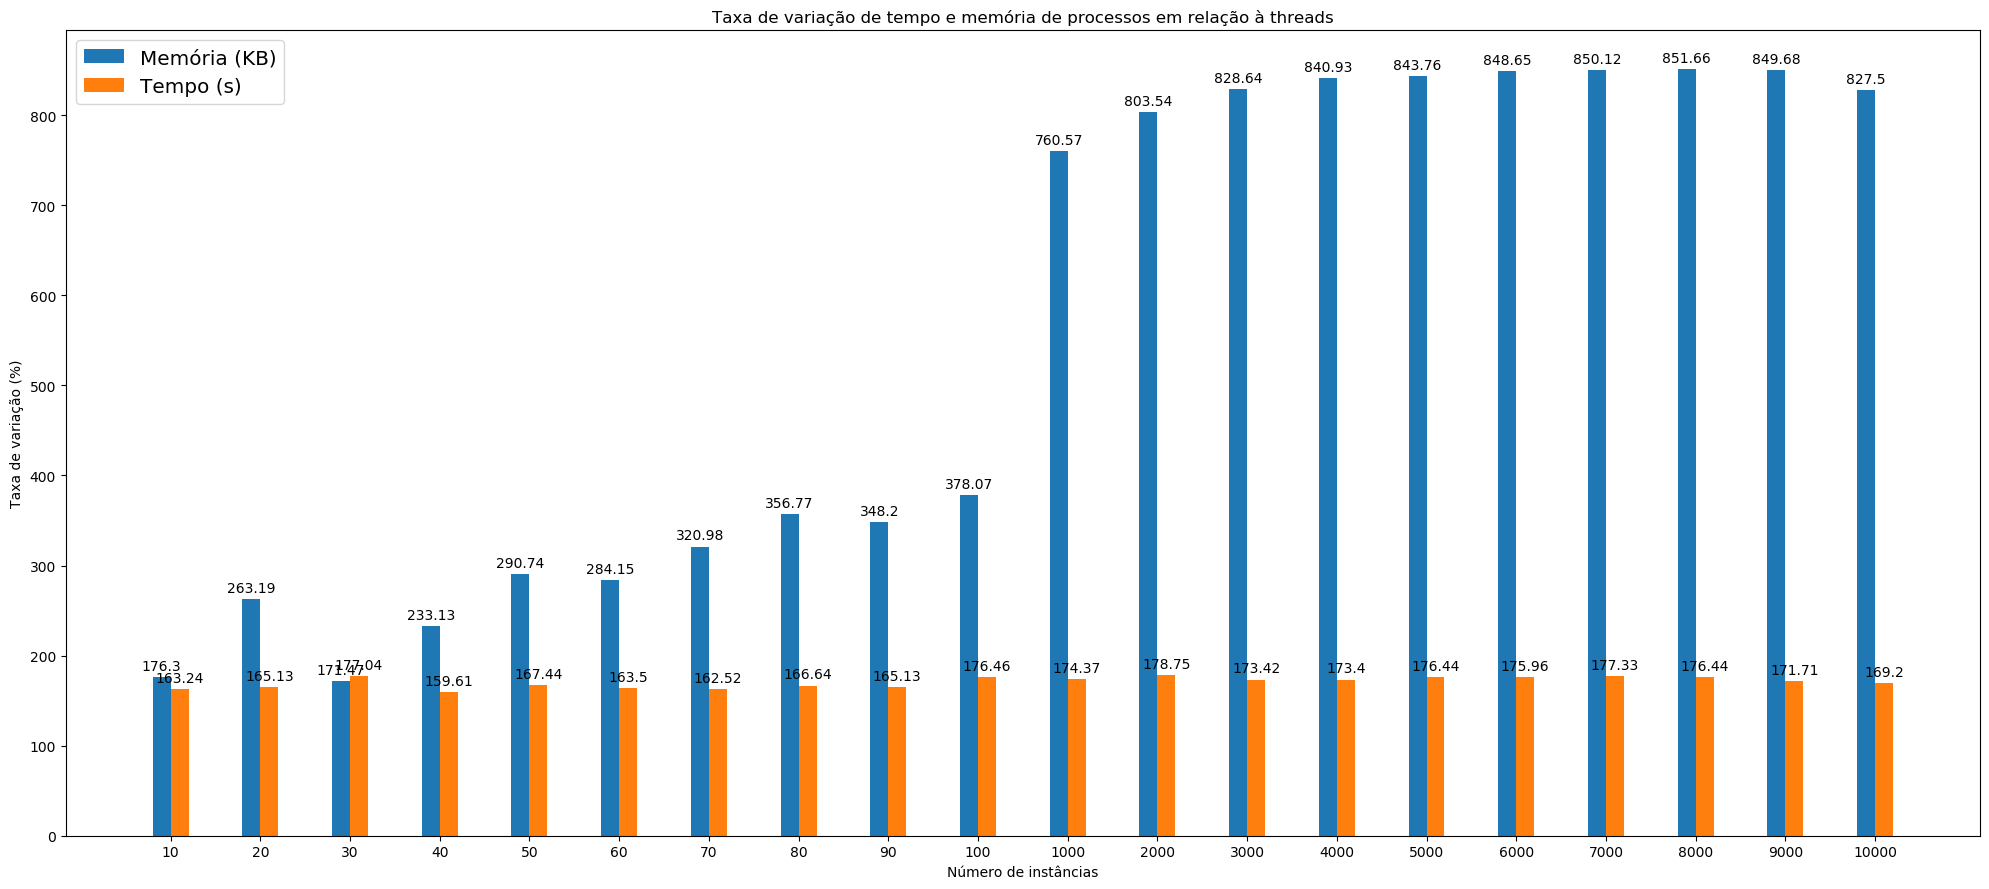
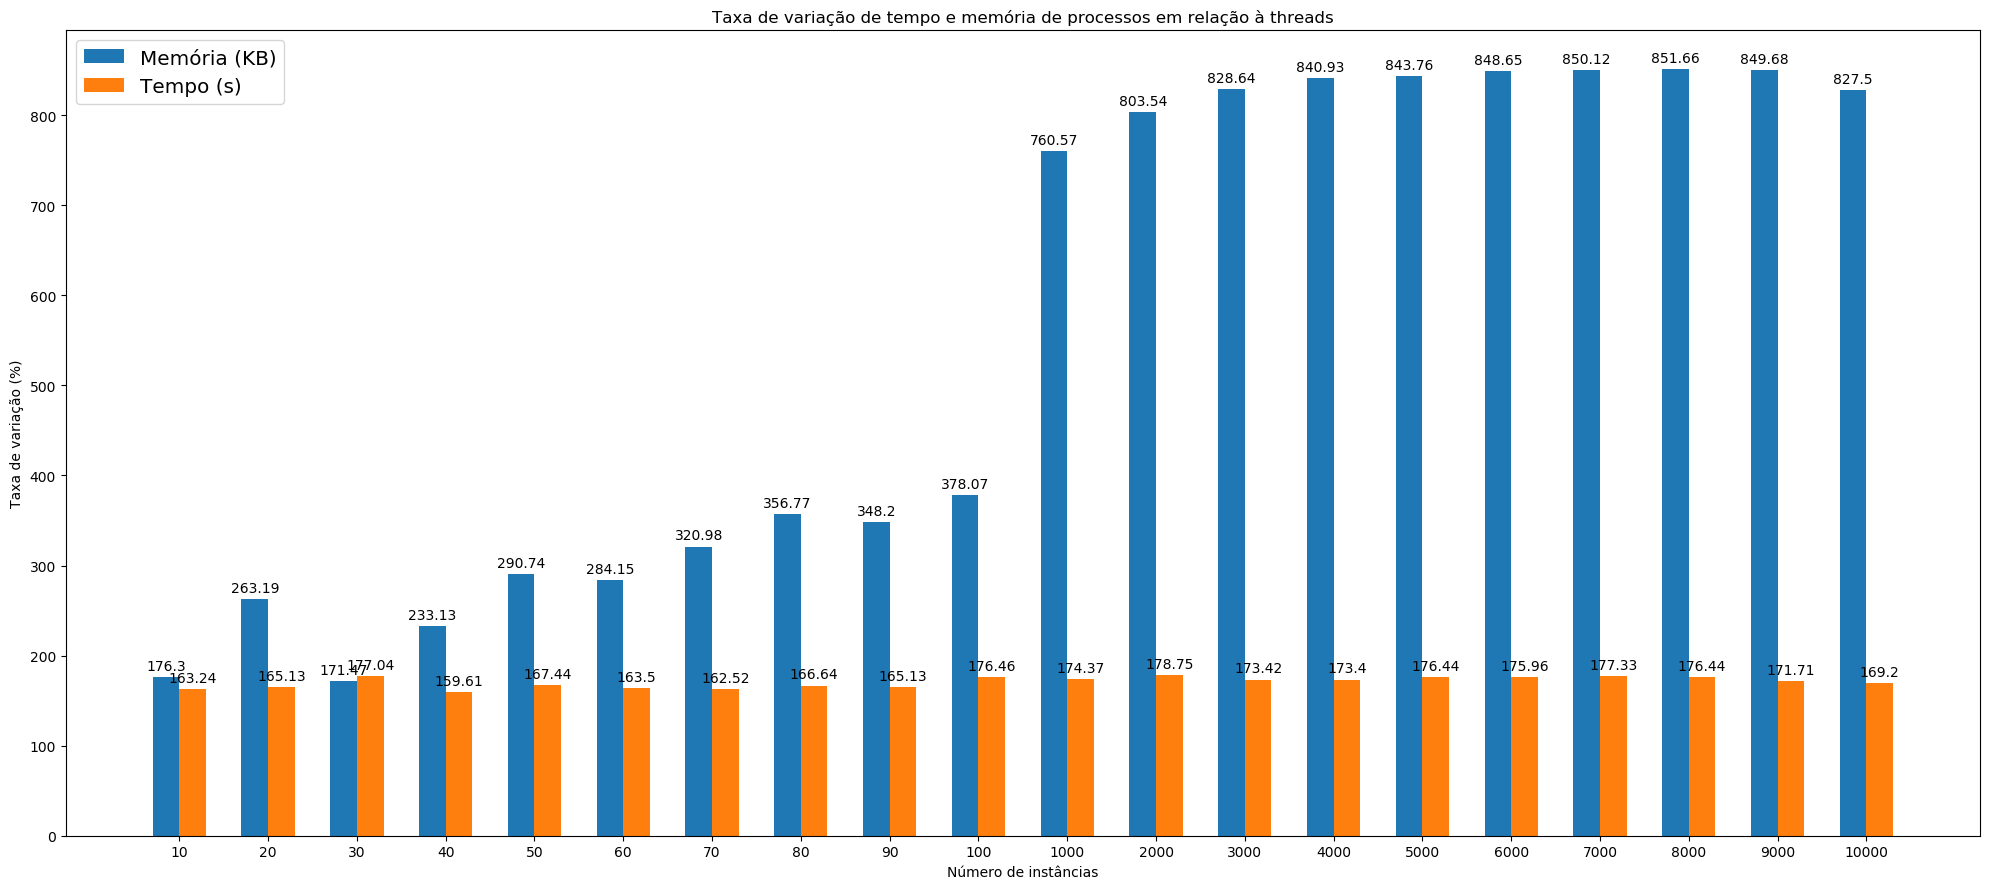
gráficos de tempo e memória por cada processo

Changed region(s): [[0.0623, 0.0607, 0.9663, 1.0], [0.3741, 0.0, 0.6858, 0.0304]]

diff --git a/questao_3/output/plot_graphics.py b/questao_3/output/plot_graphics.py
@@ -110,32 +110,6 @@ plt.legend()
 plt.savefig('rect_proc_x_thread_mem.png', bbox_inches='tight')
 plt.clf()
 
-## PER-THREAD AND PER-PROCESS DATA HISTOGRAMS
-
-thread_hist_mem = [statistics.mean(np.array(thread_mem_data_map[key]) / key) for key in keys]
-thread_hist_time = [statistics.mean(np.array(thread_time_data_map[key]) / key) for key in keys]
-proc_hist_mem = [statistics.mean(np.array(proc_mem_data_map[key]) / key) for key in keys]
-proc_hist_time = [statistics.mean(np.array(proc_time_data_map[key]) / key) for key in keys]
-
-print(thread_hist_mem)
-print(thread_hist_time)
-print(proc_hist_mem)
-print(proc_hist_time)
-
-fig, axs = plt.subplots(1, 2, sharey=True, tight_layout=True)
-# We can set the number of bins with the `bins` kwarg
-axs[0].hist(thread_hist_mem, bins=20)
-axs[1].hist(proc_hist_mem, bins=20)
-plt.savefig('hist_mem.png', bbox_inches='tight')
-plt.clf()
-
-fig, axs = plt.subplots(1, 2, sharey=True, tight_layout=True)
-# We can set the number of bins with the `bins` kwarg
-axs[0].hist(thread_hist_time, bins=20)
-axs[1].hist(proc_hist_time, bins=20)
-plt.savefig('hist_time.png', bbox_inches='tight')
-plt.clf()
-
 ## BOXPLOT GRAPHS ##
 
 thread_box_mem = [thread_mem_data_map[key] for key in keys]
@@ -163,6 +137,7 @@ for axe in ax:
     axe.set_ylabel('Memória Utilizada (KB)')
 plt.savefig('boxplot_10_50_mem.png', bbox_inches='tight')
 plt.clf()
+plt.close(fig)
 
 ## TIME
 
@@ -182,6 +157,7 @@ for axe in ax:
     axe.set_ylabel('Tempo (s)')
 plt.savefig('boxplot_10_50_time.png', bbox_inches='tight')
 plt.clf()
+plt.close(fig)
 
 ## 60 - 100 INSTANCES
 
@@ -204,6 +180,7 @@ for axe in ax:
     axe.set_ylabel('Memória Utilizada (KB)')
 plt.savefig('boxplot_60_100_mem.png', bbox_inches='tight')
 plt.clf()
+plt.close(fig)
 
 ## TIME
 
@@ -223,6 +200,7 @@ for axe in ax:
     axe.set_ylabel('Tempo (s)')
 plt.savefig('boxplot_60_100_time.png', bbox_inches='tight')
 plt.clf()
+plt.close(fig)
 
 ## 1K - 5K INSTANCES
 
@@ -244,6 +222,7 @@ for axe in ax:
     axe.set_ylabel('Memória Utilizada (KB)')
 plt.savefig('boxplot_1K_5K_mem.png', bbox_inches='tight')
 plt.clf()
+plt.close(fig)
 
 ## TIME
 
@@ -263,6 +242,7 @@ for axe in ax:
     axe.set_ylabel('Tempo (s)')
 plt.savefig('boxplot_1K_5K_time.png', bbox_inches='tight')
 plt.clf()
+plt.close(fig)
 
 ## 6K - 10K INSTANCES
 
@@ -284,6 +264,7 @@ for axe in ax:
     axe.set_ylabel('Memória Utilizada (KB)')
 plt.savefig('boxplot_6K_10K_mem.png', bbox_inches='tight')
 plt.clf()
+plt.close(fig)
 
 ## TIME
 
@@ -303,7 +284,7 @@ for axe in ax:
     axe.set_ylabel('Tempo (s)')
 plt.savefig('boxplot_6K_10K_time.png', bbox_inches='tight')
 plt.clf()
-
+plt.close(fig)
 
 ## SEPARATED MEMORY BOXPLOTS - 1K to 10K
 
@@ -324,13 +305,14 @@ for i in range(10):
         axe.set_ylabel('Memória Utilizada (KB)')
     plt.savefig('boxplot_' + str(i + 1) + 'K_mem.png', bbox_inches='tight')
     plt.clf()
+    plt.close(fig)
 
 ## INCREASE PERCENTAGE GRAPH ##
 
 mem_increase_perc = []
 time_increase_perc = []
 
-column_width = 0.20
+column_width = 0.30
 
 for i in range(len(keys)):
     mem_increase_perc.append(round((mean_proc_mem_list[i] * 100.0) / mean_thread_mem_list[i], 2))
@@ -364,6 +346,59 @@ fig.tight_layout()
 
 plt.savefig('bar_increase_perc.png', bbox_inches='tight')
 plt.clf()
+plt.close(fig)
+
+## PER-THREAD AND PER-PROCESS DATA BARS
+
+thread_hist_mem = [round(statistics.mean(np.array(thread_mem_data_map[key]) / key), 2) for key in keys]
+thread_hist_time = [np.format_float_scientific(statistics.mean(np.array(thread_time_data_map[key]) / key), precision=3) for key in keys]
+proc_hist_mem = [round(statistics.mean(np.array(proc_mem_data_map[key]) / key), 2) for key in keys]
+proc_hist_time = [np.format_float_scientific(statistics.mean(np.array(proc_time_data_map[key]) / key), precision=3) for key in keys]
+
+### MEMORY
+
+fig, ax = plt.subplots(figsize=(20, 9))
+rects1 = ax.bar(np.array(range(0, len(keys))) - column_width / 2, np.array(thread_hist_mem), column_width, label='Memória / Thread (KB)')
+rects2 = ax.bar(np.array(range(0, len(keys))) + column_width / 2, np.array(proc_hist_mem), column_width, label='Memória / Processo (KB)')
+ax.set_ylabel('Tamanho (KB)')
+ax.set_xlabel('Número de instâncias')
+ax.set_title('Média de tamanho por cada instância criada')
+ax.set_xticks(np.array(range(0, len(keys))))
+ax.set_xticklabels(keys)
+ax.legend(loc='upper right', fontsize='x-large')
+
+autolabel(rects1)
+autolabel(rects2)
+
+fig.tight_layout()
+
+plt.savefig('bar_mean_mem_unit.png', bbox_inches='tight')
+plt.clf()
+plt.close(fig)
+
+
+### TIME
+
+fig, ax = plt.subplots(figsize=(20, 9))
+rects1 = ax.bar(np.array(range(0, len(keys))) - column_width / 2, np.array(thread_hist_time), column_width, label='Tempo / Thread (s)')
+rects2 = ax.bar(np.array(range(0, len(keys))) + column_width / 2, np.array(proc_hist_time), column_width, label='Tempo / Processo (s)')
+ax.set_ylabel('Tempo (s)')
+ax.set_xlabel('Número de instâncias')
+ax.set_title('Média de tempo por cada instância criada')
+ax.set_xticks(np.array(range(0, len(keys))))
+ax.set_xticklabels(keys)
+ax.legend(loc='upper left', fontsize='x-large')
+
+autolabel(rects1)
+autolabel(rects2)
+
+fig.tight_layout()
+
+plt.savefig('bar_mean_time_unit.png', bbox_inches='tight')
+plt.clf()
+plt.close(fig)
+
+## END
 
 print('mean memory increase: ' + str(statistics.mean(mem_increase_perc)) + '%', 'mean time increase: ' + str(statistics.mean(time_increase_perc)) + '%')
 

diff --git a/questao_3/README.md b/questao_3/README.md
@@ -2,7 +2,7 @@
 
 ## Metodologia 
 
-### Tempo de criação: 
+### Tempo de criação
 
 O objetivo da análise é ver qual o custo de memória e tempo de processamento no uso de threads vs processos. Para isso, foram criados dois programas similares, um que usa thread e um que usa processos, que fazem:
 
@@ -24,7 +24,7 @@ O experimento foi realizado com diversos números de instâncias de threads e pr
 
 É esperado que a criação de threads seja mais leve (consuma menos memória e aconteça em menos tempo), já que apenas é necessário criar uma nova stack no espaço de endereçamento lógico do processo, enquanto que para criar um novo processo é necessário realizar uma cópia de todo o processo pai. Como threads também utilizam de memória compartilhada, é esperado que seu uso de memória seja menor, ainda mais com todas executando a mesma função, já para processos, cada processo necessitaria das suas próprias páginas na memória para poder executar, mesmo que sejam iguais às dos outros processos, aumentando muito o número de page-faults e, consequentemente, de acesso à memória.
 
-### Ambiente:
+### Ambiente
 
 O experimento e a coleta de dados foi realizada em uma máquina com as seguintes configurações:
 
@@ -32,7 +32,7 @@ O experimento e a coleta de dados foi realizada em uma máquina com as seguintes
 - Processador: Intel(R) Core(TM) i7-7500U @ 2.70GHz (2 núcleos e 4 threads)
 - Memória RAM: 8GB DDR4 2133 MHz
 
-### Resultados: 
+## Resultados
 
 Para plotar os gráficos dos dados obtidos, foi utilizado o script Python (versão 3.7.3) presente neste repositório ([aqui](output/plot_graphics.py)) e foram utilizadas as bibliotecas Numpy e Matplotlib (o script pode ser facilmente executado utilizando o Anaconda, caso não se deseje instalar as bibliotecas separadamente.
 
@@ -45,23 +45,73 @@ Para que seja possível ter uma melhor dimensão da diferença dos valores, temo
 
 ![alt text](output/bar_increase_perc.png?raw=true)
 
-#### Boxplots
+Além disso, verificamos o comportamento de cada thread e processo individualmente, ou seja, com o aumento da quantidade de instâncias, como fica a divisão de tempo/instância e memória/instância. Essa informação esta disposta nos dois gráficos seguintes.
 
+![alt text](output/bar_mean_mem_unit.png?raw=true)
+
+Observamos acima que houve uma diminuição na quantidade de memória utilizada por uma única thread ou processo no decorrer do incremento do número de instâncias. **__PORQUE OCORRE?__**
+
+![alt text](output/bar_mean_time_unit.png?raw=true)
+
+Já se tratando de tempo, observamos que houve um aumento no tempo necessário para inicializar uma nova thread ou processo no decorrer do incremento do número de instâncias.
+
+### Boxplots
+
+Os dados obtidos com o esperimento foram organizados em gráficos de boxplot, para cada número de instâncias e para dados de memória e tempo. Os gráficos para processos e threads foram colocados lado a lado, entretanto, deve-se observar que a escala, na maioria dos casos, não estará equivalente, pois fazê-lo iria dificultar a visualização (principalmente para os números maiores de instâncias, dado que a discrepância entre os valores tende a ser maior).
+
+O principal intuito com as representações abaixo é o de observar a forma como se deu a distribuição dos dados por nós obtidos e, especialmente, verificar a quantidade e a disposição de valores discrepantes na distribuição.
+
+É possível observar uma grande dispersão e presença considerável de valores discrepantes principalmente para os dados de processos e relativos à valores de memória (gráficos logo abaixo). 
+
+### Tempo
+
+#### 10 à 50 Instâncias
 ![alt text](output/boxplot_10_50_time.png?raw=true)
+
+#### 60 à 100 Instâncias
 ![alt text](output/boxplot_60_100_time.png?raw=true)
+
+#### 1K à 5K Instâncias
 ![alt text](output/boxplot_1K_5K_time.png?raw=true)
+
+#### 6K à 10K Instâncias
 ![alt text](output/boxplot_6K_10K_time.png?raw=true)
 
+
+### Memória
+
+#### 10 à 50 Instâncias
 ![alt text](output/boxplot_10_50_mem.png?raw=true)
+
+#### 60 à 100 Instâncias
 ![alt text](output/boxplot_60_100_mem.png?raw=true)
+
+#### 1K Instâncias
 ![alt text](output/boxplot_1K_mem.png?raw=true)
-![alt text](output/boxplot_1K_mem.png?raw=true)
+
+#### 2K Instâncias
 ![alt text](output/boxplot_2K_mem.png?raw=true)
+
+#### 3K Instâncias
 ![alt text](output/boxplot_3K_mem.png?raw=true)
+
+#### 4K Instâncias
 ![alt text](output/boxplot_4K_mem.png?raw=true)
+
+#### 5K Instâncias
 ![alt text](output/boxplot_5K_mem.png?raw=true)
+
+#### 6K Instâncias
 ![alt text](output/boxplot_6K_mem.png?raw=true)
+
+#### 7K Instâncias
 ![alt text](output/boxplot_7K_mem.png?raw=true)
+
+#### 8K Instâncias
 ![alt text](output/boxplot_8K_mem.png?raw=true)
+
+#### 9K Instâncias
 ![alt text](output/boxplot_9K_mem.png?raw=true)
+
+#### 10K Instâncias
 ![alt text](output/boxplot_10K_mem.png?raw=true)
